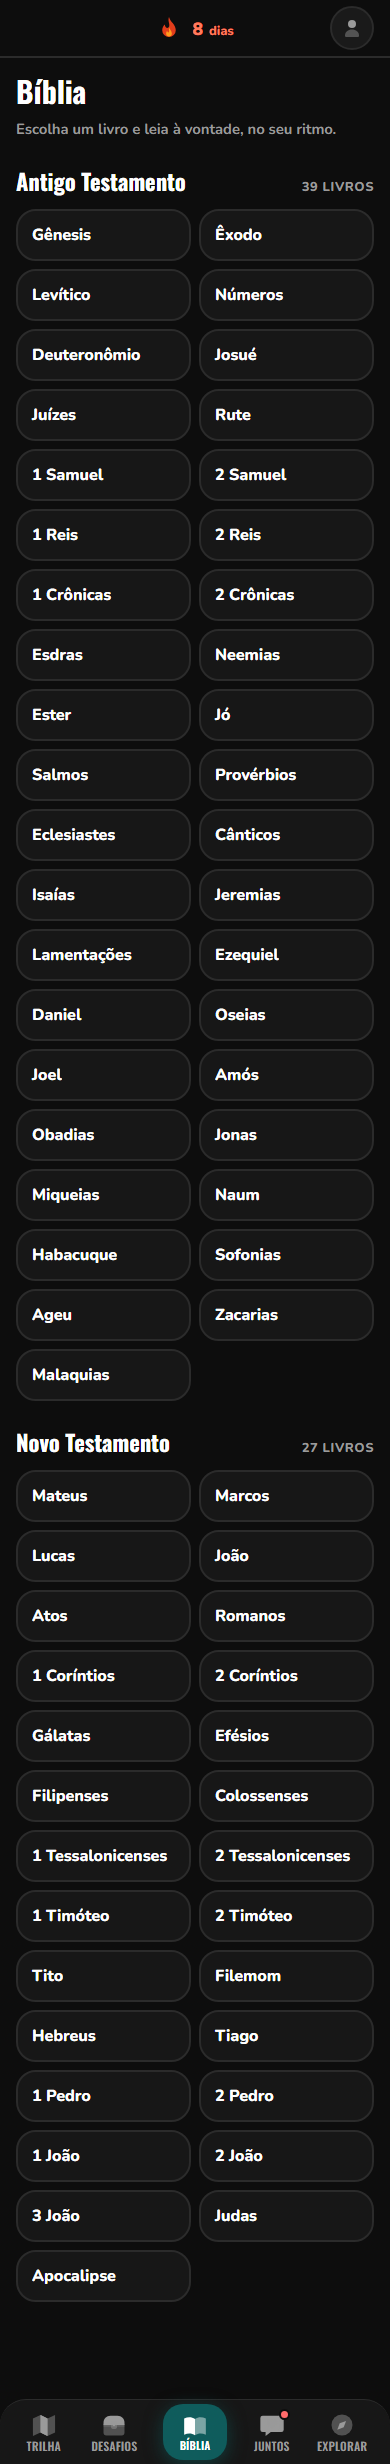
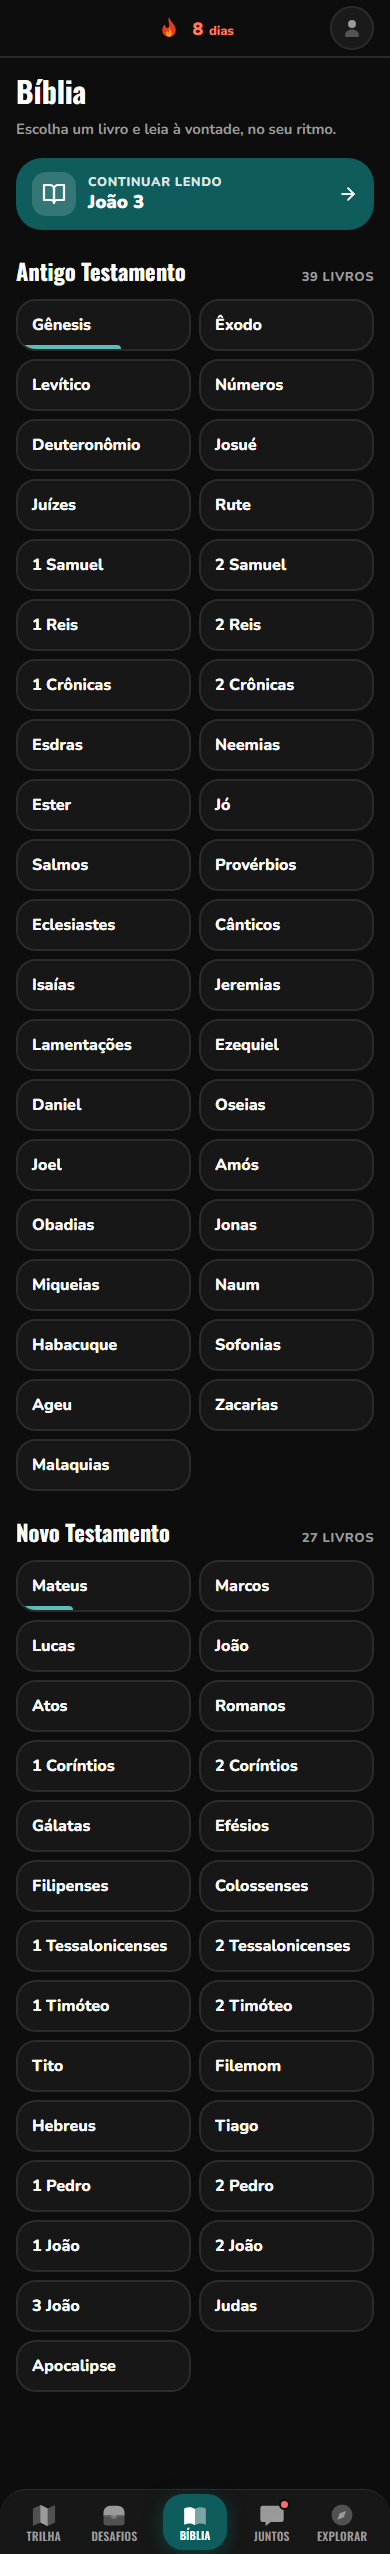
Documentação: fases 1 a 5, a barra do iPhone e as telas novas
- telas/: 34 telas por tema, com a Bíblia (continuar lendo), a célula (Hoje, Estudo,
  Pessoas) e o Perfil novo;
- fluxo.html: raias da Bíblia e do Juntos refeitas, Perfil e Bíblia reavaliados;
- README: conteúdo fora do index.html, rota da célula, sincronização leve e o modo do app
  instalado no iPhone;
- relatório: o que já foi feito, com os commits.

Claude-Session: https://claude.ai/code/session_0138zC9ABB8Va3UURvgNMEuN

diff --git a/docs/arquitetura/fluxo.html b/docs/arquitetura/fluxo.html
@@ -134,7 +134,7 @@ const TELAS = [
     faz: 'Festeja a constância (ofensiva, semana, amigos que leram) e fecha com "Até amanhã".',
     ajustar: ['"Volte amanhã para não faltar lenha" puxa para a cobrança que as regras de tom evitam; algo como "Amanhã tem mais" mantém o convite sem pressão.'] },
   { id: '14-ofensiva', raia: 'trilha', col: 7, rota: 'topo → chama', nome: 'Folha da ofensiva', av: 'ok',
-    faz: 'Explica a ofensiva, os escudos e o recorde com versículo. Aberta pela chama do topo em qualquer tela.' },
+    faz: 'Explica a ofensiva, os escudos e o recorde com versículo. Aberta pela chama do topo em qualquer tela. De 7 a 29 dias: "Uma semana / e a chama pegou" (Jr 20.9).' },
   { id: '13-primeiros-passos', raia: 'trilha', col: 8, rota: '#/passos', nome: 'Primeiros passos', av: 'ok',
     faz: 'As 12 lições para quem acabou de chegar. Quem é novo vê "Novo na fé? Comece pelos Primeiros passos" na Trilha; também há atalho no Explorar, no Perfil e num dos desafios do dia.',
     ajustar: ['Depois que o aviso da Trilha some, o caminho mais curto passa a ser o Perfil, que não é onde se procura conteúdo.'] },
@@ -145,12 +145,14 @@ const TELAS = [
     faz: 'Quiz por unidade para guardar versículos; a unidade atual vem primeiro.',
     ajustar: ['Só se chega aqui pelo cartão em Desafios. Um atalho no fim da lição ("guarde o versículo de hoje") aproveitaria o momento em que o versículo acabou de ser lido.'] },
 
-  { id: '30-biblia', raia: 'biblia', col: 0, rota: '#/biblia', nome: 'Bíblia · livros', av: 'aviso',
-    faz: 'Os 66 livros em dois testamentos, em botões grandes.',
-    ajustar: ['Falta "continuar de onde parei" no topo: o YouVersion abre direto no último capítulo lido.', 'Não mostra quais livros a pessoa já leu, e não há busca por palavra no texto.'] },
+  { id: '30-biblia', raia: 'biblia', col: 0, rota: '#/biblia', nome: 'Bíblia · livros', av: 'ok',
+    faz: 'Os 66 livros em dois testamentos. No topo, a leitura de hoje no plano (para quem nunca abriu) ou "Continuar lendo". Cada livro mostra quanto o plano já leu dele.',
+    ajustar: ['Ainda falta a busca por palavra no texto.'] },
   { id: '31-biblia-leitor', raia: 'biblia', col: 1, rota: '#/biblia/Livro/N', nome: 'Leitor', av: 'ok',
-    faz: 'Texto limpo, tamanho da letra (Aa), capítulo anterior e seguinte no pé.',
+    faz: 'Texto limpo, tamanho da letra (Aa), capítulo anterior e seguinte no pé. O capítulo aberto fica guardado, em qualquer aparelho.',
     ajustar: ['Destacar e anotar um versículo (o hábito mais usado no YouVersion) ainda não existe no leitor livre.'] },
+  { id: '32-biblia-continuar', raia: 'biblia', col: 2, rota: '#/biblia', nome: 'Continuar lendo', av: 'ok',
+    faz: 'De volta à lista, o cartão do topo leva direto ao último capítulo aberto.' },
 
   { id: '40-explorar', raia: 'explorar', col: 0, rota: '#/explorar', nome: 'Explorar', av: 'ok',
     faz: 'Busca no topo, "Comece por aqui", notas ligadas à leitura de hoje e as seções por assunto.' },
@@ -162,15 +164,18 @@ const TELAS = [
   { id: '50-juntos', raia: 'juntos', col: 0, rota: '#/novidades', nome: 'Juntos', av: 'aviso',
     faz: 'Amigos no topo, cartão da célula, convidar, Propósitos e o feed com marcos e o recado do líder.',
     ajustar: ['"Convidar" aparece duas vezes seguidas (na roda de amigos e no botão largo).', 'O pedido "Mostrar seus marcos aos amigos?" fica no meio do feed, empurrando o conteúdo.'] },
-  { id: '51-celula', raia: 'juntos', col: 1, rota: 'Juntos → célula', nome: 'Célula (folha)', av: 'aviso',
-    faz: 'Recado, encontro, meta do dia e quem leu, com as ações do líder.',
-    ajustar: ['Numa célula de 20 pessoas a folha fica muito longa; o desenho da célula como tela com abas (Hoje, Estudo, Pessoas) está em espera.'] },
-  { id: '52-propositos', raia: 'juntos', col: 2, rota: '#/novidades/propositos', nome: 'Propósitos', av: 'ok',
+  { id: '51-celula', raia: 'juntos', col: 1, rota: '#/novidades/celula/<id>', nome: 'Célula · Hoje', av: 'ok',
+    faz: 'Tela própria com três abas. Hoje: recado, encontro, meta do dia e o que o líder muda (recado, dia, link).' },
+  { id: '53-celula-estudo', raia: 'juntos', col: 2, rota: '#/novidades/celula/<id>/estudo', nome: 'Célula · Estudo', av: 'ok',
+    faz: 'O estudo do encontro inteiro, para ler antes e mandar no grupo. O líder prepara ou muda dali. Quando o estudo fica pronto, ele aparece no feed.',
+    ajustar: ['Próximo passo do desenho: o líder montar o roteiro bloco a bloco e o modo encontro (em espera).'] },
+  { id: '54-celula-pessoas', raia: 'juntos', col: 3, rota: '#/novidades/celula/<id>/pessoas', nome: 'Célula · Pessoas', av: 'ok',
+    faz: 'Quem leu hoje, notificar quem falta, chamar alguém, tirar da célula (líder), sair ou encerrar.' },
+  { id: '52-propositos', raia: 'juntos', col: 4, rota: '#/novidades/propositos', nome: 'Propósitos', av: 'ok',
     faz: 'Duplas e grupos de leitura e oração, com convites no topo.' },
 
-  { id: '60-perfil', raia: 'perfil', col: 0, rota: '#/perfil', nome: 'Perfil', av: 'aviso',
-    faz: 'Semeador, visão geral, amigos, anotações, coleção, versículos, livros, instalar e o apoio do CVV.',
-    ajustar: ['É a tela mais longa do app e mistura progresso, social, conteúdo e ajuda. "Lendo junto" repete o topo do Juntos.', 'Configurações ficam num ícone pequeno no canto; muita gente procura por "Conta" no fim da tela.'] },
+  { id: '60-perfil', raia: 'perfil', col: 0, rota: '#/perfil', nome: 'Perfil', av: 'ok',
+    faz: 'Numa ordem só: quem sou, visão geral, coleção, Trilha do Semeador, meus conteúdos (anotações, versículos, livros, Primeiros passos), o aplicativo (instalar, "Configurações e conta") e o apoio do CVV.' },
   { id: '61-perfil-conquistas', raia: 'perfil', col: 1, rota: '#/perfil/conquistas', nome: 'Conquistas', av: 'ok',
     faz: 'Dez conquistas com nível, barra e o próximo alvo; as ainda não ganhas ficam em cinza.' },
   { id: '62-perfil-trofeus', raia: 'perfil', col: 2, rota: '#/perfil/trofeus', nome: 'Troféus', av: 'ok',
@@ -203,10 +208,13 @@ const SETAS = [
   ['14-ofensiva', '13-primeiros-passos', 'Novo na fé? (Trilha)', true],
   ['20-desafios', '21-praticar', 'Praticar'],
   ['30-biblia', '31-biblia-leitor', 'livro e capítulo'],
+  ['31-biblia-leitor', '32-biblia-continuar', 'fecha o leitor', true],
   ['40-explorar', '41-explorar-secao', 'seção'],
   ['41-explorar-secao', '42-explorar-nota', 'nota'],
   ['50-juntos', '51-celula', 'cartão da célula'],
-  ['51-celula', '52-propositos', 'Propósitos', true],
+  ['51-celula', '53-celula-estudo', 'aba Estudo'],
+  ['53-celula-estudo', '54-celula-pessoas', 'aba Pessoas'],
+  ['54-celula-pessoas', '52-propositos', 'Juntos → Propósitos', true],
   ['60-perfil', '61-perfil-conquistas', 'Conquistas'],
   ['61-perfil-conquistas', '62-perfil-trofeus', 'Troféus', true],
   ['62-perfil-trofeus', '63-perfil-livros', 'Livros', true],

diff --git a/docs/arquitetura/README.md b/docs/arquitetura/README.md
@@ -36,17 +36,18 @@ flowchart LR
 ```
 
 - **Sem framework e sem dependências npm.** O servidor usa só o Node (http, crypto, sqlite), e o app é JavaScript puro em módulos concatenados pelo build.
-- **O conteúdo vai dentro do app.** O plano de 365 dias, as reflexões e as 546 notas ficam em `conteudo/conteudo.json` e são embutidos no `index.html` (4,9 MB, 1,1 MB comprimido). As duas Bíblias (NBV e Bíblia Livre) são arquivos à parte, com cache próprio.
+- **O conteúdo é um arquivo à parte.** O plano de 365 dias, as reflexões e as 546 notas saem de `conteudo/conteudo.json` para `dist/conteudo.<resumo>.json` (4,2 MB, 821 KB comprimido), baixado só quando muda. O `index.html` tem só o app (730 KB, 282 KB comprimido). As duas Bíblias (NBV e Bíblia Livre) também são arquivos à parte, com cache próprio.
 - **Funciona sem internet.** O service worker guarda o app e as Bíblias. O progresso nasce no aparelho (`localStorage`) e é fundido com o servidor quando há rede.
 
 ## Build
 
 `node build.mjs` monta o `dist/`:
 
-1. junta `src/app/*.js` em ordem (01 a 10) num `<script>` dentro de `src/index.html`, junto com o `conteudo.json`;
-2. copia as Bíblias com um resumo (hash) no nome e gera a versão `.gz`;
-3. gera o `sw.js` com o nome do cache ligado à versão, o `manifest.webmanifest` e os ícones;
-4. grava `index.html` e `index.html.gz`.
+1. junta `src/app/*.js` em ordem (01 a 10) numa função `iniciarApp` dentro de `src/index.html`, com um carregador que busca o conteúdo e só então chama o app;
+2. grava o conteúdo como `conteudo.<resumo>.json` (e `.gz`), pedido já no `<head>` (preload);
+3. copia as Bíblias com um resumo (hash) no nome e gera a versão `.gz`;
+4. gera o `sw.js` (que guarda a página e o conteúdo para abrir sem rede), o `manifest.webmanifest` e os ícones;
+5. grava `index.html` e `index.html.gz`. A versão é o resumo da página junto com o do conteúdo.
 
 A versão publicada (`/api/versao`) é o hash do `index.html`. O app compara a versão dele com a do servidor, e o service worker novo assume sem recarregar a página na frente da pessoa: a versão nova entra quando a janela é fechada e aberta de novo.
 
@@ -77,11 +78,11 @@ A versão publicada (`/api/versao`) é o hash do `index.html`. O app compara a v
 | `#/missoes` · `#/praticar` | Desafios · Praticar | Desafios |
 | `#/biblia` · `#/biblia/Livro/N` | livros · leitor | Bíblia (centro) |
 | `#/explorar` · `#/secao/…` · `#/nota/…` · `#/busca/…` | Explorar | Explorar |
-| `#/novidades` · `#/novidades/propositos` · `#/amigos/bloqueados` | Juntos · Propósitos · bloqueados | Juntos |
+| `#/novidades` · `#/novidades/celula/<id>[/estudo\|/pessoas]` · `#/novidades/propositos` · `#/amigos/bloqueados` | Juntos · célula (Hoje, Estudo, Pessoas) · Propósitos · bloqueados | Juntos |
 | `#/perfil` · `#/perfil/{conquistas,trofeus,livros,versiculos,escritos}` | Perfil e subtelas | retrato do topo |
 | `#/config` · `#/config/{notificacoes,textos,painel}` | Configurações | retrato do topo |
 
-A célula, a ofensiva, os convites e as confirmações abrem como **folhas** (painéis que sobem de baixo), sem mudar a rota. `#/propositos`, rota antiga de notificações já entregues, redireciona para `#/novidades/propositos`.
+A ofensiva, os convites e as confirmações abrem como **folhas** (painéis que sobem de baixo), sem mudar a rota. `#/propositos`, rota antiga de notificações já entregues, redireciona para `#/novidades/propositos`.
 
 ## O servidor
 
@@ -119,7 +120,7 @@ sequenceDiagram
   participant S as Servidor
   participant D as SQLite
   A->>A: marca a leitura (localStorage)
-  A->>S: PUT /api/estado (o estado inteiro, 600 ms depois)
+  A->>S: PUT /api/estado (o estado, 600 ms depois; a foto só quando mudou)
   S->>D: lê o que já estava gravado
   S->>S: funde (união das leituras, o mais novo nos campos únicos)
   S->>S: confere (data no futuro ou atrasada demais vira hoje; contadores com teto; foto só embutida)
@@ -150,6 +151,10 @@ Inscrição recusada pelo serviço (410, ou chave de outro servidor) sai da list
 - **Dados de terceiros:** a foto e o nome que vão para os amigos são limpos no servidor, e todo texto é escapado ao entrar na tela.
 - **Backups:** um por dia, AES-256-GCM, 14 guardados, chave no `.env`. Quem apaga a conta sai também dos backups.
 - **Docker:** usuário `node` (não root), porta `8082` só em `127.0.0.1`, acesso de fora só pelo túnel.
+
+### iPhone com o app instalado
+
+No iOS 26 o WebKit descola da borda o que é `position: fixed` durante a rolagem (bug 297779), e a barra de abas subia para o meio da tela. No app instalado (`navigator.standalone`), o primeiro script marca `html.app-ios`: a página não rola, quem rola é a `.aplicativo`, e a barra é um bloco comum no fim da coluna. `CC.rolarPara` e `CC.rolagemY` sabem quem rola. `ferramentas/teste-app-ios.mjs` simula o modo com `?app-ios`.
 
 ## Ambientes
 

diff --git a/docs/arquitetura/relatorio-melhorias.md b/docs/arquitetura/relatorio-melhorias.md
@@ -31,6 +31,18 @@ Os pontos fracos estão menos nas telas e mais em volta delas:
 | Barra de abas | O botão central da Bíblia chamava mais atenção que a aba atual | Traço sob o nome da aba atual |
 | Código | 11 funções mortas, 50 regras de CSS e 3 animações que sobraram do redesenho, 1 teste desatualizado | Removidos e corrigido |
 
+## Feito depois do relatório (24/09)
+
+| Item | Commit |
+|---|---|
+| 9. Conteúdo fora do `index.html`: 4,9 MB → 730 KB; atualização de código baixa 282 KB | `089417b` |
+| 4. Bíblia: "Continuar lendo" e progresso de cada livro (a busca por palavra ainda falta) | `efde616` |
+| 5. Perfil numa ordem só, sem repetir o Juntos, com "Configurações e conta" | `7b339be` |
+| 6. Célula como tela, com as abas Hoje, Estudo e Pessoas, e o estudo no feed | `d133069` |
+| 14. Sincronização leve: a foto só vai quando muda | `58ec0ad` |
+| Barra de abas no iPhone (bug do iOS 26 no app instalado) | `28e8fd2` |
+| Frase da ofensiva de 7 dias | `0104ea2` |
+
 ## Prioridade alta
 
 ### 1. O servidor não pode depender de alguém perceber que ele caiu
